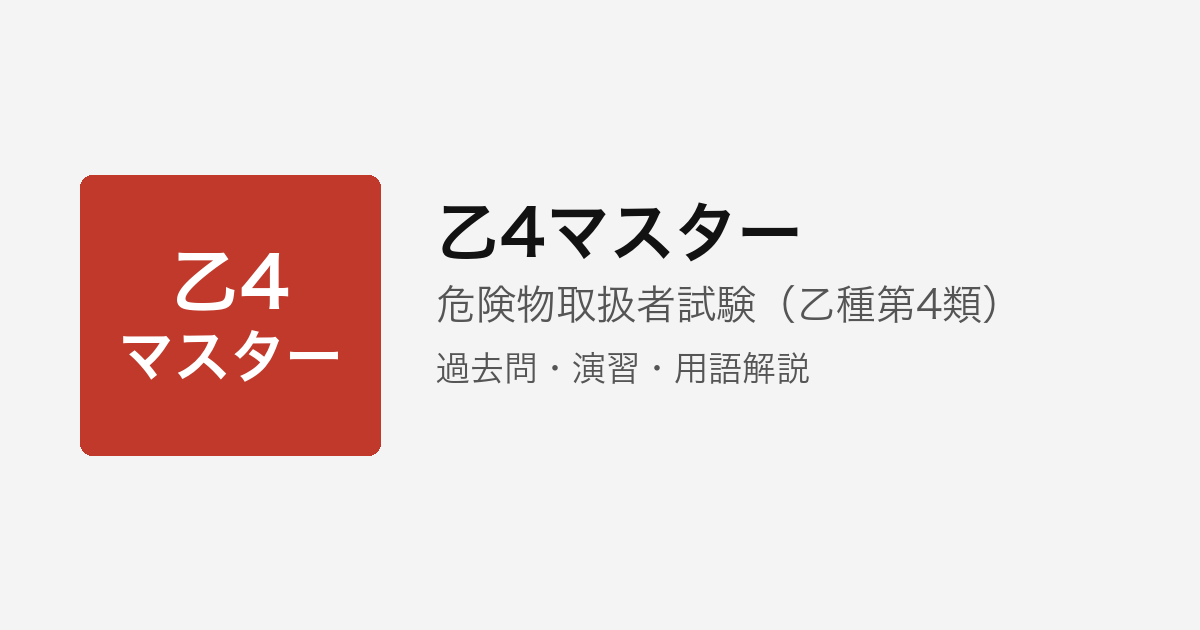
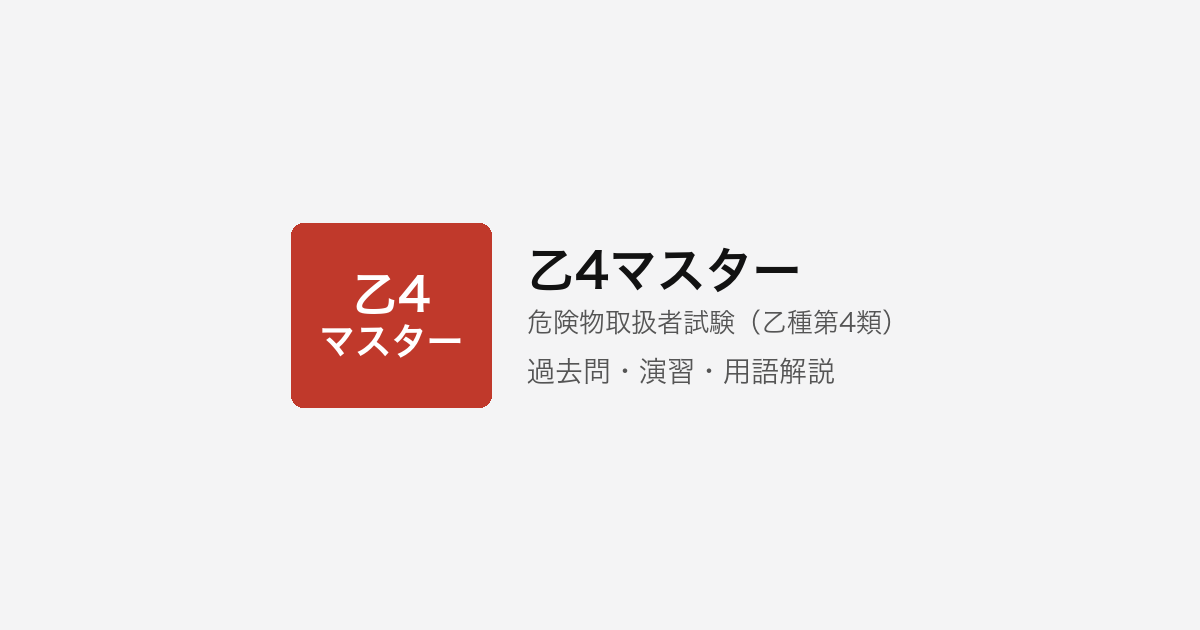
fix: OGP 画像の見切れを修正（中央安全域レイアウト）
SNS プレビューの 1:1 クロップでもロゴが切れないよう再生成した。

Changed region(s): [[0.0617, 0.2714, 0.8325, 0.7238]]

diff --git a/tools/brand_assets.py b/tools/brand_assets.py
@@ -20,6 +20,10 @@ from tools.site_config import (
 
 BRAND_DIR = "assets/brand"
 MARKER = "<!--BRAND_ASSET_HEAD-->"
+OG_WIDTH = 1200
+OG_HEIGHT = 630
+# SNS の 1:1 中央クロップ（630×630）でも切れないよう、コンテンツ幅をこの範囲に収める
+OG_SAFE_WIDTH = 620
 
 
 def _font_candidates(*, bold: bool) -> list[Path]:
@@ -172,42 +176,130 @@ def render_favicon(size: int):
 def render_og_image():
     from PIL import Image, ImageDraw
 
-    w, h = 1200, 630
+    w, h = OG_WIDTH, OG_HEIGHT
     top, bottom = brand_logo_lines()
     name = brand_name()
     exam = exam_name()
+    tagline = "過去問・演習・用語解説"
     bg = theme_page_bg()
     ink = theme_ink()
-    text = theme_text()
+    text_col = theme_text()
     muted = theme_text_muted()
+
+    measure = Image.new("RGB", (w, h), bg)
+    mdraw = ImageDraw.Draw(measure)
+
+    gap = 36
+    name_gap, exam_gap = 16, 22
+    layout = None
+    for box_w in (200, 180, 160, 140, 120):
+        box_h = max(110, int(box_w * 0.92))
+        text_max_w = OG_SAFE_WIDTH - box_w - gap
+        name_font, name_size = _fit_font(mdraw, name, text_max_w, 48, bold=True)
+        exam_font, exam_size = _fit_font(mdraw, exam, text_max_w, 30, bold=False)
+        tag_font, tag_size = _fit_font(mdraw, tagline, text_max_w, 28, bold=False)
+        text_w = max(
+            mdraw.textlength(name, font=name_font),
+            mdraw.textlength(exam, font=exam_font),
+            mdraw.textlength(tagline, font=tag_font),
+        )
+        text_h = name_size + name_gap + exam_size + exam_gap + tag_size
+        content_w = box_w + gap + int(text_w)
+        content_h = max(box_h, text_h)
+        if content_w <= OG_SAFE_WIDTH:
+            layout = {
+                "box_w": box_w,
+                "box_h": box_h,
+                "gap": gap,
+                "name_font": name_font,
+                "name_size": name_size,
+                "exam_font": exam_font,
+                "exam_size": exam_size,
+                "tag_font": tag_font,
+                "tag_size": tag_size,
+                "text_h": text_h,
+                "content_w": content_w,
+                "content_h": content_h,
+            }
+            break
 
     img = Image.new("RGB", (w, h), bg)
     draw = ImageDraw.Draw(img)
 
-    box_w, box_h = 300, 280
-    box_x, box_y = 80, (h - box_h) // 2
+    if layout is None:
+        # 横並びが収まらない場合: ロゴ＋テキストを縦積みで中央配置
+        mark_w, mark_h = 220, 200
+        text_max_w = OG_SAFE_WIDTH - 40
+        name_font, name_size = _fit_font(mdraw, name, text_max_w, 44, bold=True)
+        exam_font, exam_size = _fit_font(mdraw, exam, text_max_w, 28, bold=False)
+        tag_font, tag_size = _fit_font(mdraw, tagline, text_max_w, 26, bold=False)
+        stack_gap, line_gap = 28, 14
+        content_w = int(
+            max(
+                mark_w,
+                mdraw.textlength(name, font=name_font),
+                mdraw.textlength(exam, font=exam_font),
+                mdraw.textlength(tagline, font=tag_font),
+            )
+        )
+        content_h = mark_h + stack_gap + name_size + line_gap + exam_size + line_gap + tag_size
+        block_x = (w - content_w) // 2
+        block_y = (h - content_h) // 2
+        _draw_logo_mark(
+            draw,
+            x=block_x + (content_w - mark_w) // 2,
+            y=block_y,
+            width=mark_w,
+            height=mark_h,
+            top=top,
+            bottom=bottom,
+            bg=ink,
+            fg="#ffffff",
+            radius=12,
+        )
+        ty = block_y + mark_h + stack_gap
+        draw.text((block_x + (content_w - mdraw.textlength(name, font=name_font)) / 2, ty), name, fill=text_col, font=name_font)
+        ty += name_size + line_gap
+        draw.text((block_x + (content_w - mdraw.textlength(exam, font=exam_font)) / 2, ty), exam, fill=muted, font=exam_font)
+        ty += exam_size + line_gap
+        draw.text((block_x + (content_w - mdraw.textlength(tagline, font=tag_font)) / 2, ty), tagline, fill=muted, font=tag_font)
+        return img
+
+    block_x = (w - layout["content_w"]) // 2
+    block_y = (h - layout["content_h"]) // 2
+    box_x = block_x
+    box_y = block_y + (layout["content_h"] - layout["box_h"]) // 2
+    tx = block_x + layout["box_w"] + layout["gap"]
+    ty = block_y + (layout["content_h"] - layout["text_h"]) // 2
+
     _draw_logo_mark(
         draw,
         x=box_x,
         y=box_y,
-        width=box_w,
-        height=box_h,
+        width=layout["box_w"],
+        height=layout["box_h"],
         top=top,
         bottom=bottom,
         bg=ink,
         fg="#ffffff",
         radius=12,
     )
-
-    tx = box_x + box_w + 56
-    name_font, name_size = _fit_font(draw, name, w - tx - 80, 64, bold=True)
-    exam_font, exam_size = _fit_font(draw, exam, w - tx - 80, 40, bold=False)
-    tagline = "過去問・演習・用語解説"
-    tag_font, _ = _fit_font(draw, tagline, w - tx - 80, 34, bold=False)
-
-    draw.text((tx, box_y + 24), name, fill=text, font=name_font)
-    draw.text((tx, box_y + 24 + name_size + 20), exam, fill=muted, font=exam_font)
-    draw.text((tx, box_y + 24 + name_size + 20 + exam_size + 28), tagline, fill=muted, font=tag_font)
+    draw.text((tx, ty), name, fill=text_col, font=layout["name_font"])
+    draw.text(
+        (tx, ty + layout["name_size"] + name_gap),
+        exam,
+        fill=muted,
+        font=layout["exam_font"],
+    )
+    draw.text(
+        (
+            tx,
+            ty + layout["name_size"] + name_gap + layout["exam_size"] + exam_gap,
+        ),
+        tagline,
+        fill=muted,
+        font=layout["tag_font"],
+    )
     return img
 
 
